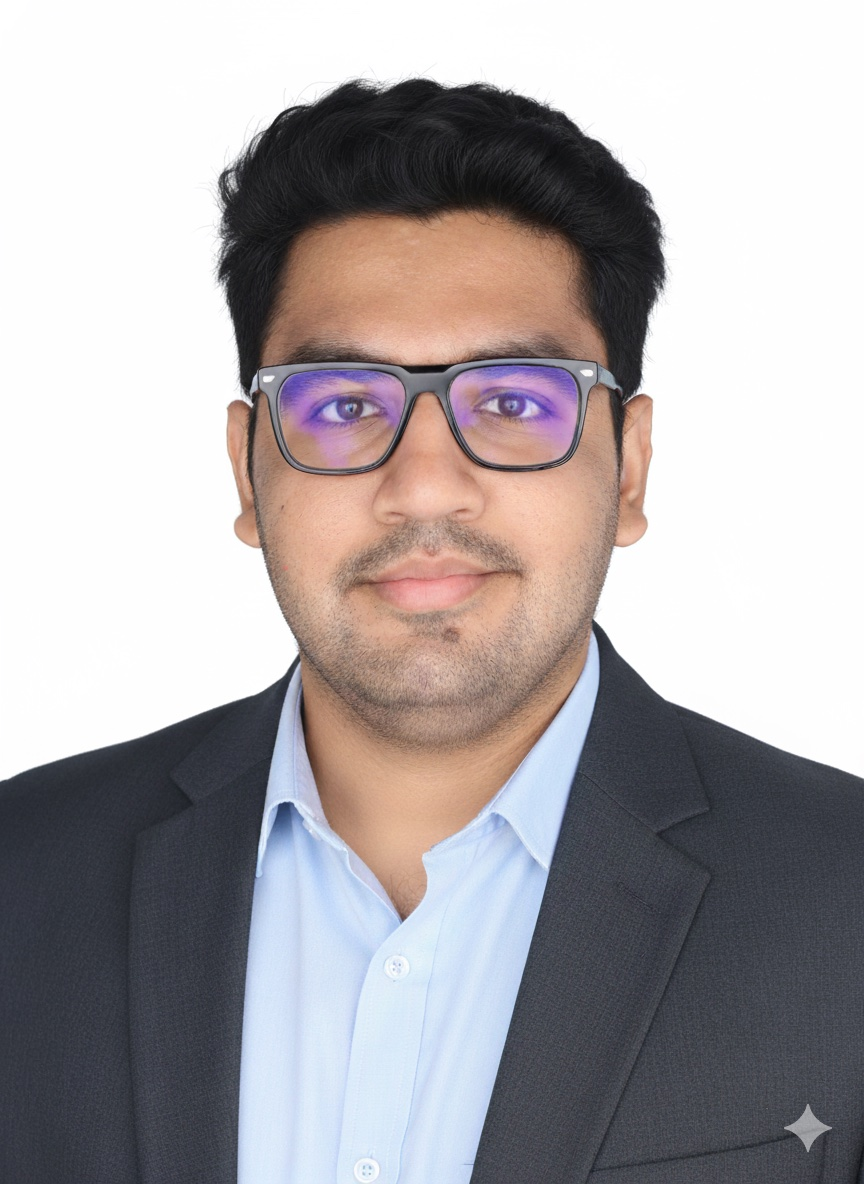
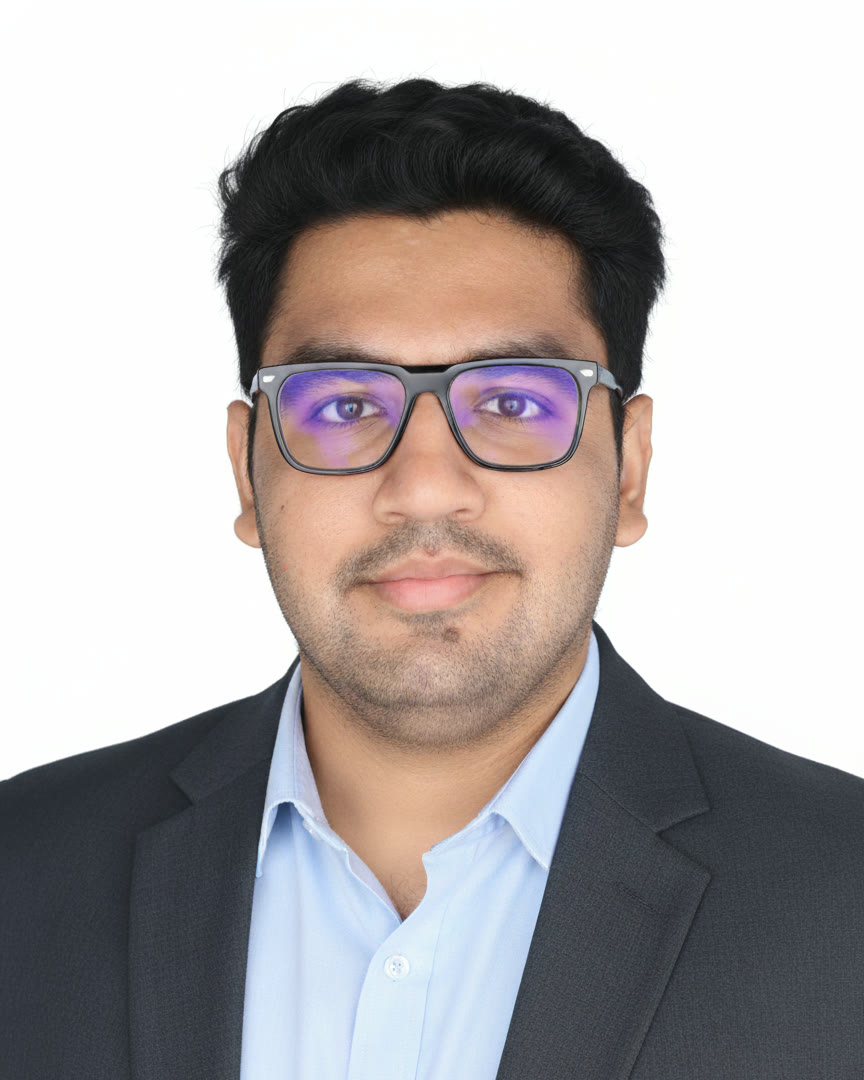
feat: refine hero section layout

Changed region(s): [[0.0, 0.0611, 1.0, 1.0], [0.9062, 0.9167, 1.0, 1.0], [0.4062, 0.9778, 0.4375, 1.0]]

diff --git a/src/components/hero-section.tsx b/src/components/hero-section.tsx
@@ -15,10 +15,14 @@ export function HeroSection() {
 		<section aria-labelledby="hero-title" className="hero-section">
 			<div aria-hidden="true" className="hero-grid" />
 
-			<div className="site-container relative grid items-center gap-14 py-16 sm:py-20 lg:min-h-[calc(100svh-4.5rem)] lg:grid-cols-[minmax(0,21rem)_minmax(0,1fr)] lg:gap-8 lg:pt-8 lg:pb-24">
+			<div className="content-container relative grid items-center gap-14 py-16 sm:py-20 lg:min-h-[calc(100svh-4.5rem)] lg:grid-cols-[minmax(0,19.5rem)_minmax(0,34rem)] lg:justify-center lg:gap-14 lg:py-16">
 				<div className="hero-copy lg:order-2">
 					<div className="mb-6">
-						<span className="inline-flex items-center rounded-md border border-success/20 bg-white/75 px-3.5 py-1.5 font-mono text-[0.6875rem] leading-4 font-medium text-neutral-700 uppercase tracking-[0.08em] shadow-[inset_0_0_12px_color-mix(in_srgb,var(--status-success)_4%,transparent),0_0_18px_color-mix(in_srgb,var(--status-success)_9%,transparent)] backdrop-blur-sm">
+						<span className="inline-flex items-center gap-2 rounded-full border border-success/15 bg-white/45 px-2.5 py-1 font-mono text-[0.6875rem] leading-4 font-medium text-neutral-600 uppercase tracking-[0.06em]">
+							<span
+								aria-hidden="true"
+								className="size-1.5 rounded-full bg-success shadow-[0_0_0_3px_color-mix(in_srgb,var(--status-success)_8%,transparent)]"
+							/>
 							{hero.availability}
 						</span>
 					</div>
@@ -64,47 +68,41 @@ export function HeroSection() {
 						</a>
 					</div>
 
-					<div className="mt-5 flex items-center gap-4">
-						<span className="font-mono text-[0.6875rem] font-medium text-neutral-500 uppercase tracking-[0.12em]">
-							Connect
-						</span>
-						<span aria-hidden="true" className="h-px w-8 bg-neutral-200" />
-						<div className="flex items-center gap-2">
-							{hero.socials.map((social) => {
-								const Icon = socialIcons[social.icon];
-								const isExternal = !social.href.startsWith("mailto:");
+					<div className="mt-2.5 flex items-center gap-1">
+						{hero.socials.map((social) => {
+							const Icon = socialIcons[social.icon];
+							const isExternal = !social.href.startsWith("mailto:");
 
-								return (
-									<a
-										key={social.label}
-										href={social.href}
-										target={isExternal ? "_blank" : undefined}
-										rel={isExternal ? "noopener noreferrer" : undefined}
-										aria-label={social.label}
-										className="grid size-11 place-items-center rounded-md text-neutral-500 no-underline transition-[background-color,color,transform] hover:-translate-y-0.5 hover:bg-brand-25 hover:text-brand-700"
-									>
-										<Icon
-											aria-hidden="true"
-											className="size-[1.125rem]"
-											strokeWidth={1.8}
-										/>
-									</a>
-								);
-							})}
-						</div>
+							return (
+								<a
+									key={social.label}
+									href={social.href}
+									target={isExternal ? "_blank" : undefined}
+									rel={isExternal ? "noopener noreferrer" : undefined}
+									aria-label={social.label}
+									className="grid size-10 place-items-center rounded-md text-neutral-700 no-underline transition-[background-color,color,transform] hover:-translate-y-px hover:bg-brand-25 hover:text-brand-700 focus-visible:-translate-y-px focus-visible:bg-brand-25 focus-visible:text-brand-700"
+								>
+									<Icon
+										aria-hidden="true"
+										className="size-5"
+										strokeWidth={1.8}
+									/>
+								</a>
+							);
+						})}
 					</div>
 				</div>
 
-				<div className="hero-portrait relative mx-auto w-full max-w-[18rem] lg:order-1 lg:ml-0 lg:max-w-[21rem]">
+				<div className="hero-portrait relative mx-auto w-full max-w-[18rem] lg:order-1 lg:ml-0 lg:max-w-[19.5rem]">
 					<div aria-hidden="true" className="hero-portrait-orbit" />
-					<div className="relative aspect-4/5 overflow-hidden rounded-[1.75rem] border border-white/90 bg-white p-2 shadow-[0_28px_80px_rgba(28,30,84,0.16)]">
+					<div className="relative aspect-4/5 overflow-hidden rounded-[1.5rem] border border-white/70 bg-white/55 p-1 shadow-[0_24px_64px_rgba(28,30,84,0.12)]">
 						<img
 							src={hero.portrait.src}
 							alt={hero.portrait.alt}
 							width={hero.portrait.width}
 							height={hero.portrait.height}
 							fetchPriority="high"
-							className="h-full w-full rounded-[1.35rem] object-cover object-[center_38%]"
+							className="h-full w-full rounded-[1.25rem] object-cover object-[center_38%]"
 						/>
 					</div>
 				</div>

diff --git a/src/styles.css b/src/styles.css
@@ -96,7 +96,8 @@
 	--sidebar-border: var(--border-subtle);
 	--sidebar-ring: var(--brand-500);
 
-	--layout-max: 75rem;
+	--layout-wide-max: 75rem;
+	--layout-content-max: 68rem;
 	--layout-gutter: clamp(1.25rem, 4vw, 4rem);
 	--section-space: clamp(5rem, 10vw, 8.5rem);
 	--ease-out: cubic-bezier(0.16, 1, 0.3, 1);
@@ -283,9 +284,18 @@ body,
 }
 
 @layer components {
-	.site-container {
-		width: min(calc(100% - (2 * var(--layout-gutter))), var(--layout-max));
+	.site-container,
+	.content-container {
+		width: min(calc(100% - (2 * var(--layout-gutter))), var(--container-max));
 		margin-inline: auto;
+	}
+
+	.site-container {
+		--container-max: var(--layout-wide-max);
+	}
+
+	.content-container {
+		--container-max: var(--layout-content-max);
 	}
 
 	.hero-section {
@@ -338,12 +348,12 @@ body,
 		clip-path: polygon(26% 0%, 100% 0%, 100% 100%, 58% 100%);
 		content: "";
 		filter: blur(8px);
-		opacity: 0.78;
+		opacity: 0.68;
 		pointer-events: none;
 		transform: rotate(-7deg);
 	}
 
-	.hero-section > .site-container {
+	.hero-section > .content-container {
 		z-index: 1;
 	}
 
@@ -366,9 +376,9 @@ body,
 
 	.chromatic-text-word {
 		position: absolute;
-		inset-block-start: 0;
-		inset-inline-start: 0;
-		contain: paint;
+		inset-block-start: -0.08em;
+		inset-inline-start: -0.05em;
+		padding: 0.08em 0.05em;
 		background-image: linear-gradient(
 			90deg,
 			var(--text-primary) 0%,
@@ -396,16 +406,16 @@ body,
 
 	.hero-portrait-orbit {
 		position: absolute;
-		top: -8%;
-		left: -17%;
+		top: -4%;
+		left: -7%;
 		z-index: -1;
-		width: 46%;
+		width: 52%;
 		aspect-ratio: 1;
 		border: 1px solid var(--brand-200);
 		border-radius: 999px;
 		box-shadow:
-			0 0 0 1.25rem rgba(154, 154, 254, 0.08),
-			0 0 0 2.5rem rgba(154, 154, 254, 0.045);
+			0 0 0 1rem rgba(154, 154, 254, 0.07),
+			0 0 0 2rem rgba(154, 154, 254, 0.035);
 	}
 
 	@media (prefers-reduced-motion: no-preference) {
@@ -426,7 +436,7 @@ body,
 			height: 29rem;
 			clip-path: polygon(32% 0%, 100% 0%, 100% 100%, 64% 100%);
 			filter: blur(6px);
-			opacity: 0.52;
+			opacity: 0.46;
 			transform: rotate(-7deg);
 		}
 	}

diff --git a/src/components/text-reveal.tsx b/src/components/text-reveal.tsx
@@ -113,8 +113,8 @@ export function ChromaticTextReveal({
 								{word}
 							</span>
 						))}
-						{/* Moving a clipped text gradient defines this effect. Paint
-              containment bounds that deliberate repaint to the active word. */}
+						{/* Matching negative offsets and padding preserve alignment while
+								giving blurred glyph edges room to render during the reveal. */}
 						<m.span
 							key={`${activeWord}-${activeIndex}`}
 							aria-hidden

diff --git a/src/data/portfolio.ts b/src/data/portfolio.ts
@@ -17,7 +17,7 @@ export const portfolio = {
 			src: "/images/bhavya-kandhari.jpg",
 			alt: "Portrait of Bhavya Kandhari",
 			width: 864,
-			height: 1184,
+			height: 1080,
 		},
 		socials: [
 			{
